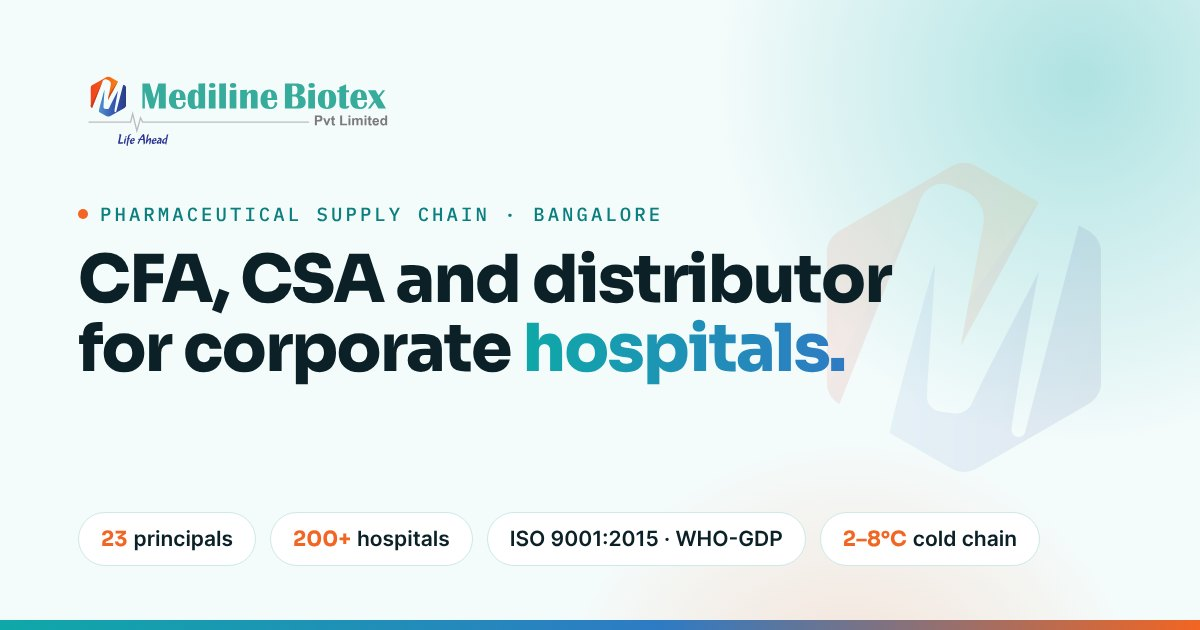
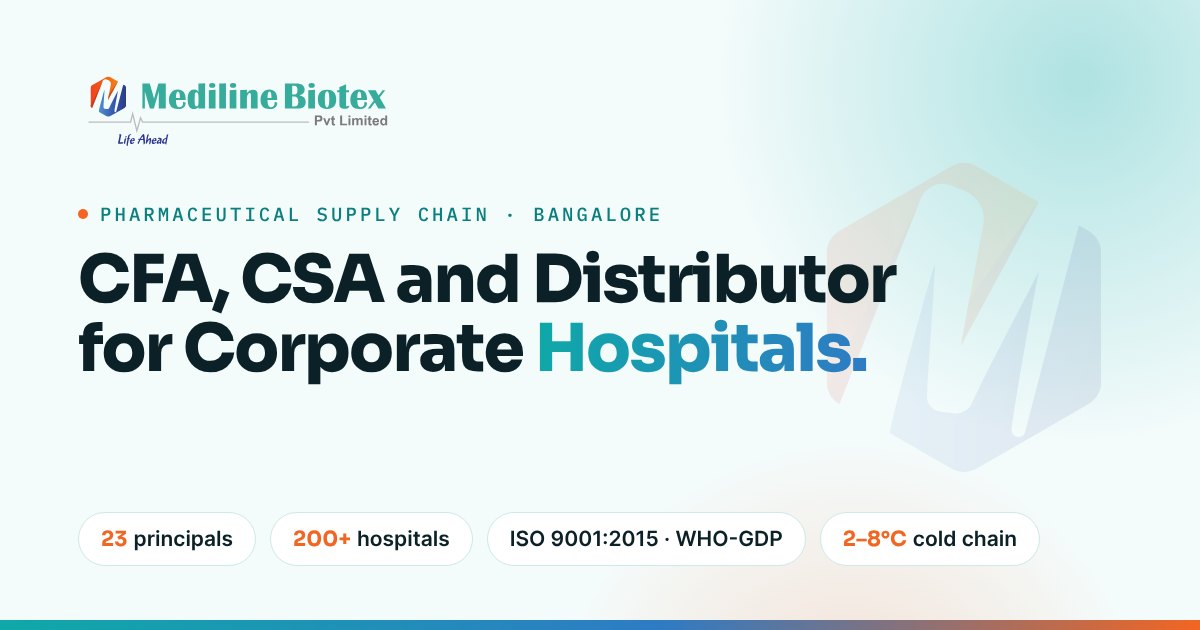
v1

Changed region(s): [[0.1542, 0.5127, 0.74, 0.6333], [0.4317, 0.3921, 0.74, 0.4825]]

diff --git a/index.html b/index.html
@@ -271,11 +271,11 @@
     <div class="hero-grid">
       <div>
         <p class="eyebrow"><i></i> Pharmaceutical supply chain · Bangalore</p>
-        <h1 class="h1" data-split>CFA, CSA and distributor for corporate <em class="grad-text">hospitals.</em></h1>
+        <h1 class="h1" data-split>CFA, CSA and Distributor for Corporate <em class="grad-text">Hospitals.</em></h1>
         <p class="lede" style="margin-top:24px">Mediline Biotex Pvt. Ltd. holds and forwards stock for 23 pharmaceutical principals, and supplies critical care, oncology and life-saving medicines to more than 200 hospitals &mdash; through validated cold chain run out of Bangalore.</p>
         <p class="rotator"><u></u> On the racks today: <b data-rotate="Oncology|Critical care|Transplant|Insulins|Nephrology|Diagnostics">Oncology</b></p>
         <div class="hero-cta">
-          <a class="btn btn-warm" href="contact">CFA, CSA and distributor for corporate hospitals
+          <a class="btn btn-warm" href="contact">CFA, CSA and Distributor for Corporate Hospitals
             <svg viewBox="0 0 24 24" fill="none" stroke="currentColor" stroke-width="2.4"><path d="M5 12h14M13 6l6 6-6 6"/></svg></a>
           <a class="btn btn-out" href="products">See what we stock</a>
         </div>
@@ -734,12 +734,11 @@
     <div class="ppl">
       <div class="person rv-l" data-tilt><div class="av">N</div><p class="role">Founder &amp; Managing Director</p>
         <h3 class="h2" style="font-size:28px;margin:0">Nisha</h3>
-        <p>Nisha founded Mediline Biotex Pvt. Ltd. and heads the three businesses at its core: carrying &amp; forwarding operations, CSA operations and corporate hospital supplies. She oversees how principals&rsquo; stock is received, held and released under each CFA and CSA mandate, and how it reaches the corporate hospital groups the company serves. As the organisation&rsquo;s decision maker, she sets the direction on which principals to partner with, which territories to take on and where to build capacity.</p>
+        <p>Nisha started Mediline Biotex Pvt. Ltd. and leads its three main businesses: carrying &amp; forwarding (CFA), CSA operations and supplies to corporate hospitals. She makes the key decisions for the company &mdash; which companies to partner with, which areas to serve and how to grow.</p>
         <div class="chips"><span>Carrying &amp; forwarding</span><span>CSA operations</span><span>Corporate hospital supply</span><span>Decision maker</span></div></div>
       <div class="person warm rv-r" data-tilt><div class="av">PK</div><p class="role">Director</p>
         <h3 class="h2" style="font-size:28px;margin:0">Pramod Kumar</h3>
-        <p>More than thirty-five years in pharmaceutical supply chain. At Biocon he rose to General Manager and Head of Distribution &amp; Hospitals for the branded formulation business across India and SAARC. His work there earned the Chairman&rsquo;s Award twice &mdash; in FY 2010&ndash;11 and again in FY 2017&ndash;18 &mdash; presented by Biocon founder Kiran Mazumdar-Shaw for stellar performance. Two awards, seven years apart: recognition for sustained delivery, not a single good year.</p>
-        <div class="award"><span class="aw-ico"><svg viewBox="0 0 24 24" fill="none" stroke="currentColor" stroke-width="2" stroke-linecap="round" stroke-linejoin="round" aria-hidden="true"><path d="M8 21h8M12 17v4M7 4h10v5a5 5 0 01-10 0V4zM7 6H4v1.5A3.5 3.5 0 007.5 11M17 6h3v1.5a3.5 3.5 0 01-3.5 3.5"/></svg></span><span><b>Chairman&rsquo;s Award &times; 2</b><small>Biocon &middot; <span class="nw">FY 2010&ndash;11</span> &amp; <span class="nw">FY 2017&ndash;18</span></small></span></div>
+        <p>Pramod Kumar has more than 35 years of experience in pharmaceutical supply chain. At Biocon, he was General Manager and Head of Distribution &amp; Hospitals for India and the SAARC countries. He won Biocon&rsquo;s Chairman&rsquo;s Award twice, in FY 2010&ndash;11 and FY 2017&ndash;18.</p>
         <div class="chips"><span>Tata Pharma</span><span>Aristo</span><span>Dr Reddy's</span><span>Lupin</span><span>Wockhardt</span><span>Biocon</span><span>Medibox</span></div></div>
     </div>
   </div>

diff --git a/team.html b/team.html
@@ -315,14 +315,14 @@
         <div class="av">N</div>
         <p class="role">Founder &amp; Managing Director</p>
         <h3 class="h2" style="font-size:28px;margin:0">Nisha</h3>
-        <p>Nisha founded Mediline Biotex Pvt. Ltd. and heads the three businesses at its core: carrying &amp; forwarding operations, CSA operations and corporate hospital supplies. She oversees how principals&rsquo; stock is received, held and released under each CFA and CSA mandate, and how it reaches the corporate hospital groups the company serves. As the organisation&rsquo;s decision maker, she sets the direction on which principals to partner with, which territories to take on and where to build capacity.</p>
+        <p>Nisha started Mediline Biotex Pvt. Ltd. and leads its three main businesses: carrying &amp; forwarding (CFA), CSA operations and supplies to corporate hospitals. She makes the key decisions for the company &mdash; which companies to partner with, which areas to serve and how to grow.</p>
         <div class="chips"><span>Carrying &amp; forwarding</span><span>CSA operations</span><span>Corporate hospital supply</span><span>Decision maker</span></div>
       </div>
       <div class="person warm rv-r" data-tilt>
         <div class="av">PK</div>
         <p class="role">Director</p>
         <h3 class="h2" style="font-size:28px;margin:0">Pramod Kumar</h3>
-        <p>More than thirty-five years in pharmaceutical supply chain. At Biocon he rose to General Manager and Head of Distribution &amp; Hospitals for the branded formulation business across India and SAARC. His work there earned the Chairman&rsquo;s Award twice &mdash; in FY 2010&ndash;11 and again in FY 2017&ndash;18 &mdash; presented by Biocon founder Kiran Mazumdar-Shaw for stellar performance. Two awards, seven years apart: recognition for sustained delivery, not a single good year.</p>
+        <p>Pramod Kumar has more than 35 years of experience in pharmaceutical supply chain. At Biocon, he was General Manager and Head of Distribution &amp; Hospitals for India and the SAARC countries. He won Biocon&rsquo;s Chairman&rsquo;s Award twice, in FY 2010&ndash;11 and FY 2017&ndash;18.</p>
         <div class="chips"><span>Tata Pharma</span><span>Aristo</span><span>Dr Reddy's</span><span>Lupin</span><span>Wockhardt</span><span>Biocon</span><span>Medibox</span></div>
       </div>
     </div>
